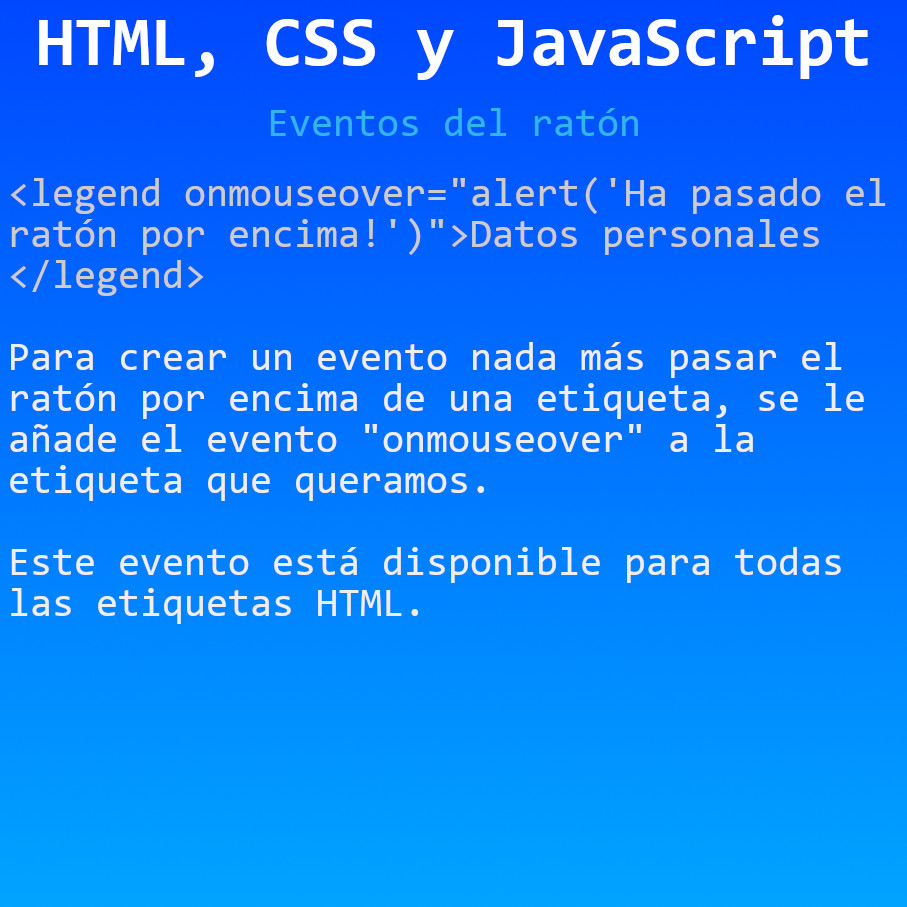
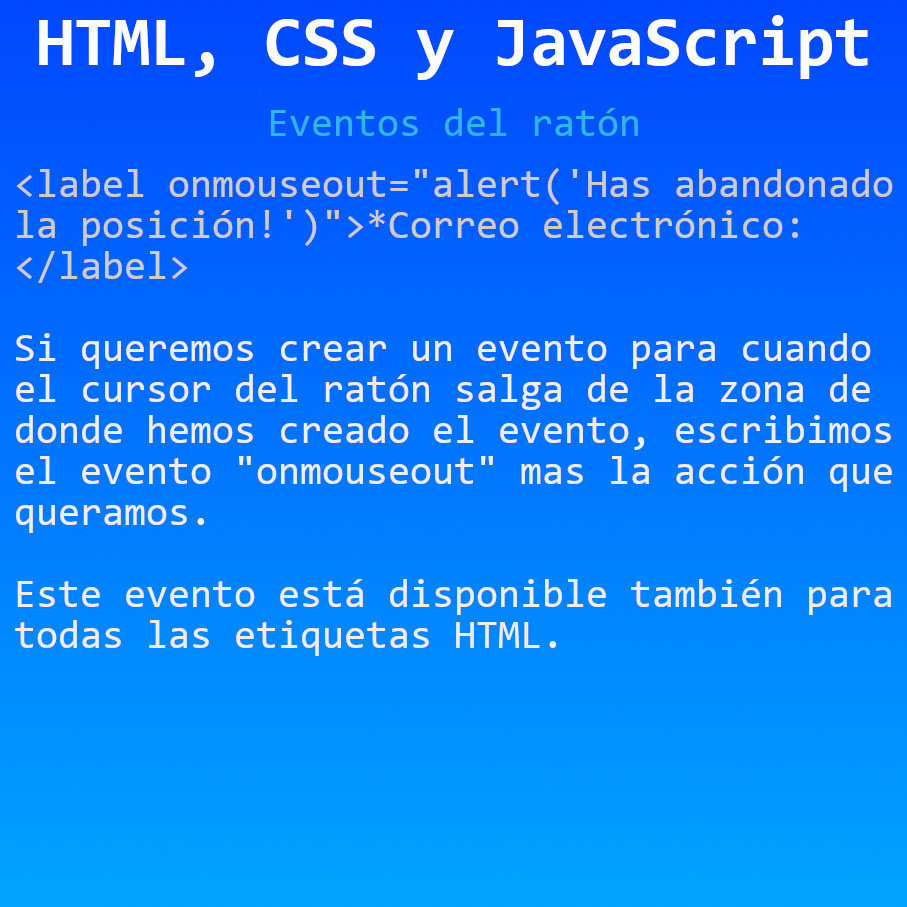
Eventos del ratón
Eventos del ratón en JavaScript

Changed region(s): [[0.0, 0.3705, 0.9879, 0.7409], [0.0, 0.1852, 0.9879, 0.3396]]

diff --git a/HTML, CSS y JavaScript/Eventos del ratón/index.html b/HTML, CSS y JavaScript/Eventos del ratón/index.html
@@ -27,7 +27,8 @@
         <!-- accionar el evento al dar doble clic con el ratón -->
         <input type="text" name="nombre" value="" ondblclick="alert('Le has dado doble clic!')" autofocus>
         <br>
-        <label>*Correo electrónico: </label>
+        <!-- accionar evento cuando el ratón se quita de encima -->
+        <label onmouseout="alert('Has abandonado la posición!')">*Correo electrónico: </label>
         <input type="email" name="correo" value="">
       </fieldset>
       <p style="color:red;">*Todos los campos son obligatorios</p>
